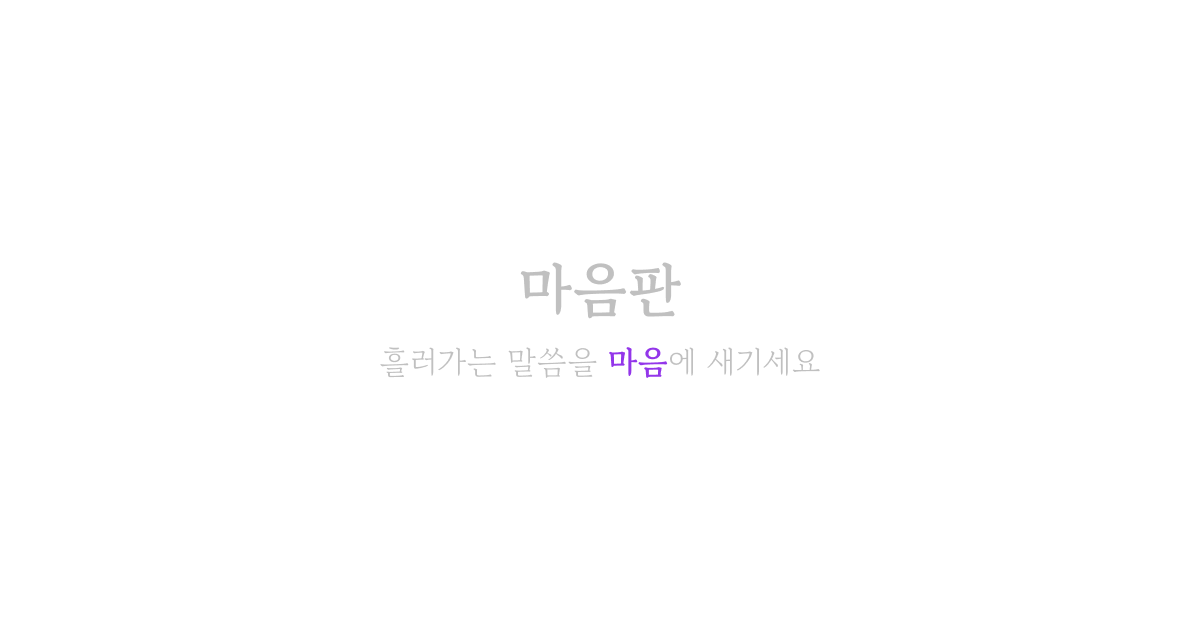
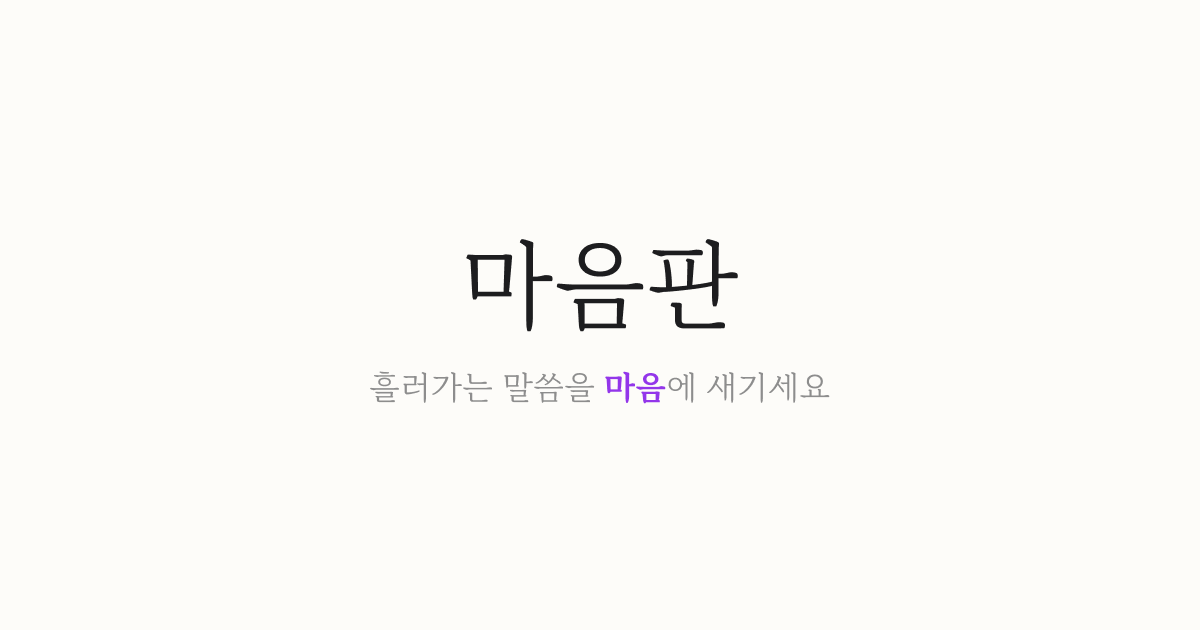
Fix: 폰트 경로 타이포 수정

Changed region(s): [[0.3083, 0.3619, 0.7092, 0.6333]]

diff --git a/apps/web/src/app/sermon/[id]/_components/sermon-body.tsx b/apps/web/src/app/sermon/[id]/_components/sermon-body.tsx
@@ -8,7 +8,7 @@ interface SermonBodyProps {
 
 export function SermonBody({ summary }: SermonBodyProps) {
   return (
-    <article className="prose prose-lg dark:prose-invert text-foreground prose-headings:text-foreground prose-p:text-foreground prose-strong:text-foreground prose-ul:text-foreground prose-ol:text-foreground prose-li:text-foreground max-w-none">
+    <article className="prose prose-lg dark:prose-invert prose-headings:text-foreground prose-p:text-foreground prose-strong:text-foreground prose-ul:text-foreground prose-ol:text-foreground prose-li:text-foreground max-w-none">
       <ReactMarkdown remarkPlugins={[remarkGfm]}>{summary}</ReactMarkdown>
     </article>
   );

diff --git a/apps/web/src/app/layout.tsx b/apps/web/src/app/layout.tsx
@@ -47,12 +47,12 @@ export const viewport: Viewport = {
 const maruburi = localFont({
   src: [
     {
-      path: '../assets/fonts/MaruBuri/MaruBuri-Regular.otf',
+      path: '../assets/fonts/maruburi/MaruBuri-Regular.otf',
       weight: '400',
       style: 'normal',
     },
     {
-      path: '../assets/fonts/MaruBuri/MaruBuri-Bold.otf',
+      path: '../assets/fonts/maruburi/MaruBuri-Bold.otf',
       weight: '700',
       style: 'normal',
     },
